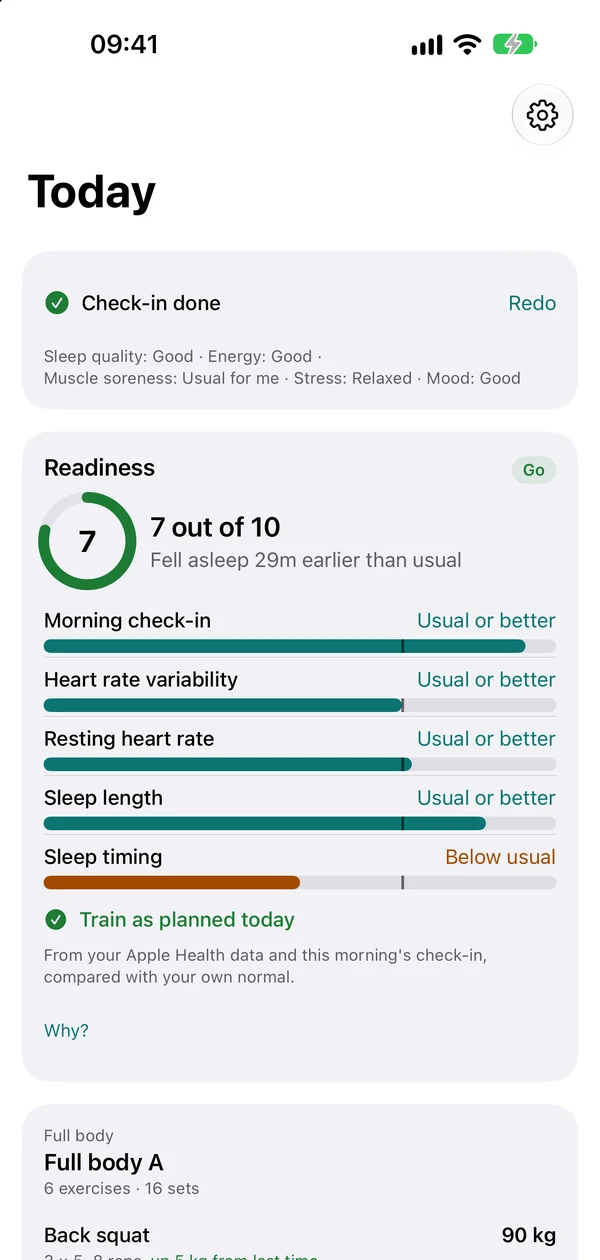
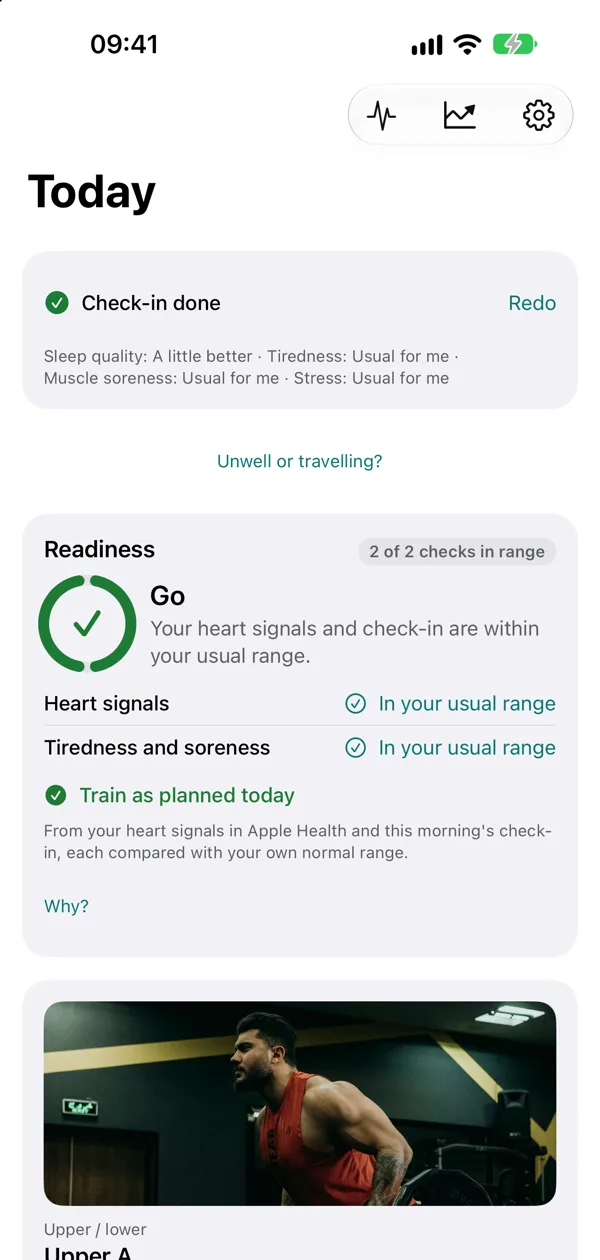
Udapt page for 1.3: Go, Ease off or Recover, run, ride and swim, train anywhere, food that learns your burn, every change explained; the ten 1.3 App Store panels in place of the 1.2 ones; the 1.3 Today screen
Claude-Session: https://claude.ai/code/session_018fyMZ86VPNyXcF1utVSCAz

diff --git a/udapt.html b/udapt.html
@@ -4,7 +4,7 @@
 <meta charset="utf-8">
 <meta name="viewport" content="width=device-width,initial-scale=1,viewport-fit=cover">
 <title>Udapt by iSafeNet: The Fitness Plan That Adapts Around You</title>
-<meta name="description" content="Udapt for iPhone and Apple Watch: one adaptive daily plan that reads Apple Health each morning and adjusts today's training and food together.">
+<meta name="description" content="Udapt for iPhone and Apple Watch: strength training, runs, rides, swims and food targets in one plan that checks each morning how you've recovered.">
 <meta name="theme-color" content="#0B1018">
 <link rel="canonical" href="https://isafenet.app/udapt.html">
 <link rel="icon" type="image/png" sizes="32x32" href="assets/favicon-32.png" media="(prefers-color-scheme: light)">
@@ -16,18 +16,18 @@
 <meta property="og:locale" content="en_GB">
 <meta property="og:site_name" content="iSafeNet">
 <meta property="og:title" content="Udapt by iSafeNet: The Fitness Plan That Adapts Around You">
-<meta property="og:description" content="Udapt for iPhone and Apple Watch: one adaptive daily plan that reads Apple Health each morning and adjusts today's training and food together.">
+<meta property="og:description" content="Udapt for iPhone and Apple Watch: strength training, runs, rides, swims and food targets in one plan that checks each morning how you've recovered.">
 <meta property="og:url" content="https://isafenet.app/udapt.html">
 <meta property="og:image" content="https://isafenet.app/assets/img/og.png">
 <meta name="twitter:card" content="summary_large_image">
 <meta name="twitter:title" content="Udapt by iSafeNet: The Fitness Plan That Adapts Around You">
-<meta name="twitter:description" content="Udapt for iPhone and Apple Watch: one adaptive daily plan that reads Apple Health each morning and adjusts today's training and food together.">
+<meta name="twitter:description" content="Udapt for iPhone and Apple Watch: strength training, runs, rides, swims and food targets in one plan that checks each morning how you've recovered.">
 <meta name="twitter:image" content="https://isafenet.app/assets/img/og.png">
 <link rel="preload" href="assets/fonts/home/bricolage-grotesque-normal-700-latin.woff2" as="font" type="font/woff2" crossorigin>
 <link rel="stylesheet" href="assets/site.css">
 <script>document.documentElement.classList.add("js")</script>
 <script type="application/ld+json">{"@context":"https://schema.org","@type":"Organization","@id":"https://isafenet.app/#organization","name":"iSafeNet","url":"https://isafenet.app/","logo":"https://isafenet.app/assets/favicon-192.png","image":"https://isafenet.app/assets/img/og.png","email":"info@isafenet.app","slogan":"Create. Ship. Evolve.","description":"iSafeNet is an independent mobile app studio designing and building private, accessible apps for iPhone, iPad and Apple Watch.","sameAs":["https://github.com/isafenet"],"contactPoint":{"@type":"ContactPoint","email":"info@isafenet.app","contactType":"customer support","availableLanguage":["English"]},"owns":[{"@type":"MobileApplication","name":"AirReveal","url":"https://airreveal.isafenet.app/"},{"@type":"MobileApplication","name":"GLPMGR","url":"https://glpmgr.isafenet.app/"},{"@type":"MobileApplication","name":"Udapt","url":"https://udapt.isafenet.app/"}]}</script>
-<script type="application/ld+json">{"@context":"https://schema.org","@type":"MobileApplication","name":"Udapt","url":"https://udapt.isafenet.app/","image":"https://isafenet.app/assets/img/apps/udapt-icon.png","description":"One adaptive Daily Plan that reads Apple Health each morning and adjusts today's training and today's food targets together, explaining every change in plain English.","applicationCategory":"HealthApplication","operatingSystem":"iOS, watchOS","inLanguage":"en-GB","publisher":{"@id":"https://isafenet.app/#organization"},"author":{"@id":"https://isafenet.app/#organization"},"offers":{"@type":"Offer","price":"6.99","priceCurrency":"GBP"},"installUrl":"https://apps.apple.com/app/udapt-workout-food-planner/id6815828206","downloadUrl":"https://apps.apple.com/app/udapt-workout-food-planner/id6815828206","sameAs":["https://isafenet.app/udapt.html"]}</script>
+<script type="application/ld+json">{"@context":"https://schema.org","@type":"MobileApplication","name":"Udapt","url":"https://udapt.isafenet.app/","image":"https://isafenet.app/assets/img/apps/udapt-icon.png","description":"One plan for your strength training, runs, rides, swims and food targets, checked each morning against how you've recovered, with every change explained in plain English.","applicationCategory":"HealthApplication","operatingSystem":"iOS, watchOS","inLanguage":"en-GB","publisher":{"@id":"https://isafenet.app/#organization"},"author":{"@id":"https://isafenet.app/#organization"},"offers":{"@type":"Offer","price":"6.99","priceCurrency":"GBP"},"installUrl":"https://apps.apple.com/app/udapt-workout-food-planner/id6815828206","downloadUrl":"https://apps.apple.com/app/udapt-workout-food-planner/id6815828206","sameAs":["https://isafenet.app/udapt.html"]}</script>
 <script type="application/ld+json">{"@context":"https://schema.org","@type":"BreadcrumbList","itemListElement":[{"@type":"ListItem","position":1,"name":"iSafeNet","item":"https://isafenet.app/"},{"@type":"ListItem","position":2,"name":"Apps","item":"https://isafenet.app/index.html#apps"},{"@type":"ListItem","position":3,"name":"Udapt","item":"https://isafenet.app/udapt.html"}]}</script>
 </head>
 <body>
@@ -44,32 +44,32 @@
     <p class="crumbs"><a href="index.html">iSafeNet</a> / <a href="index.html#apps">Apps</a> / Udapt</p>
     <div class="app-id" style="margin-top:22px"><img src="assets/img/apps/udapt-icon.png" width="84" height="84" alt="Udapt app icon"><div><a class="live" href="https://apps.apple.com/app/udapt-workout-food-planner/id6815828206"><svg viewBox="0 0 24 24" fill="none" stroke="currentColor" stroke-width="2" stroke-linecap="round" stroke-linejoin="round" aria-hidden="true"><path d="M5 7h14l-1 13H6L5 7z"/><path d="M9 7a3 3 0 0 1 6 0"/></svg> Available on the App Store</a><div class="kind" style="margin-top:8px">Health &amp; Fitness · iPhone &amp; Apple Watch</div></div></div>
     <h1>Udapt: <span class="grad">The fitness plan that adapts around you.</span></h1>
-    <p class="lead">Udapt reads Apple Health (or a quick morning check-in) every day and adjusts today's training and today's food targets together, as one connected plan, with a plain-English reason for every change. No spreadsheets, no separate apps to reconcile.</p>
+    <p class="lead">Udapt checks each morning how you've recovered, from Apple Health and a four-question check-in, and fits today's workout, run, ride or swim and your food targets to it, as one connected plan. Every change comes with a plain-English reason and the research behind it.</p>
     <div class="cta-row"><a class="btn" href="https://apps.apple.com/app/udapt-workout-food-planner/id6815828206">Get it on the App Store</a><a class="btn ghost" href="https://udapt.isafenet.app/">Visit the Udapt website <svg viewBox="0 0 24 24" fill="none" stroke="currentColor" stroke-width="2" stroke-linecap="round" stroke-linejoin="round" aria-hidden="true"><path d="M7 17 17 7"/><path d="M8 7h9v9"/></svg></a><a class="btn ghost" href="https://udapt.isafenet.app/#features">See how it works</a></div>
     <ul class="chips" aria-label="Platforms and features"><li>iPhone</li><li>Apple Watch</li><li>Widgets</li><li>Apple Health</li><li>On-device AI</li><li>6 languages</li></ul>
   </div>
-  <div class="devices" aria-label="Screens from Udapt"><div class="phone panel p1"><img class="" src="assets/img/apps/udapt-panel-training-that-adapts.webp" width="660" height="1405" alt="Training that adapts: today's sets with weights worked out from your last session" decoding="async"></div><div class="phone panel p2"><img class="" src="assets/img/apps/udapt-panel-ready-in-one-glance.webp" width="660" height="1405" alt="Ready in one glance: readiness score 7, Go, with today's Full body A session" decoding="async"></div><div class="phone panel p3"><img class="" src="assets/img/apps/udapt-panel-food-that-moves-with-you.webp" width="660" height="1405" alt="Food that moves with you: calories and protein, carbs and fat eaten against today's targets on a training day" decoding="async"></div></div>
+  <div class="devices" aria-label="Screens from Udapt"><div class="phone panel p1"><img class="" src="assets/img/apps/udapt13-training-that-adapts.webp" width="660" height="1434" alt="Training that adapts: bench press and barbell row with weights from last time and reps to leave in the tank" decoding="async"></div><div class="phone panel p2"><img class="" src="assets/img/apps/udapt13-ready-in-one-glance.webp" width="660" height="1434" alt="Ready in one glance: Go, with 2 of 2 checks in your usual range and today's Upper A session" decoding="async"></div><div class="phone panel p3"><img class="" src="assets/img/apps/udapt13-run-ride-or-swim.webp" width="660" height="1434" alt="Run, ride or swim: a 35-minute easy run with Stop if… safety advice and spoken cues" decoding="async"></div></div>
 </div></section>
 
 <section><div class="wrap">
   <div class="sec-head rv"><span class="eyebrow">Highlights</span><h2>What Udapt does.</h2></div>
-  <div class="grid"><article class="card rv"><div class="ico"><svg viewBox="0 0 24 24" fill="none" stroke="currentColor" stroke-width="2" stroke-linecap="round" stroke-linejoin="round" aria-hidden="true"><path d="M19 14c1.49-1.46 3-3.21 3-5.5A5.5 5.5 0 0 0 16.5 3c-1.76 0-3 .5-4.5 2-1.5-1.5-2.74-2-4.5-2A5.5 5.5 0 0 0 2 8.5c0 2.3 1.5 4.05 3 5.5l7 7Z"/></svg></div><h3>Readiness that means something</h3><p>Heart rate variability, resting heart rate and sleep from Apple Health, or a 5-question morning check-in if you don't wear your Watch to bed. Either way, you get a score and a plain reason why.</p></article><article class="card rv"><div class="ico"><svg viewBox="0 0 24 24" fill="none" stroke="currentColor" stroke-width="2" stroke-linecap="round" stroke-linejoin="round" aria-hidden="true"><path d="M6.5 6.5 4 4M6.5 17.5 4 20M17.5 6.5 20 4M17.5 17.5 20 20"/><rect x="7" y="7" width="10" height="10" rx="2"/></svg></div><h3>Training that eases off, not just logs</h3><p>A rough night trims today's sets and caps effort automatically. A good run of days lets your program progress. You can always keep the original session, one tap.</p></article><article class="card rv"><div class="ico"><svg viewBox="0 0 24 24" fill="none" stroke="currentColor" stroke-width="2" stroke-linecap="round" stroke-linejoin="round" aria-hidden="true"><path d="M18 8h1a4 4 0 0 1 0 8h-1M2 8h16v9a4 4 0 0 1-4 4H6a4 4 0 0 1-4-4V8z"/><path d="M6 1v3M10 1v3M14 1v3"/></svg></div><h3>Food targets that move with training</h3><p>More carbs on training days, a little less on rest days, and the week's total stays the same. After a month of daily weigh-ins and food logs, your calorie target adapts to what your body actually does, not a generic formula.</p></article><article class="card rv"><div class="ico"><svg viewBox="0 0 24 24" fill="none" stroke="currentColor" stroke-width="2" stroke-linecap="round" stroke-linejoin="round" aria-hidden="true"><rect x="3" y="11" width="18" height="10" rx="2"/><circle cx="12" cy="5" r="2"/><path d="M12 7v4"/></svg></div><h3>Log food your way</h3><p>Search thousands of foods, scan a barcode, or use on-device AI to log a meal from a photo or by describing it out loud. Nothing leaves your phone.</p></article><article class="card rv"><div class="ico"><svg viewBox="0 0 24 24" fill="none" stroke="currentColor" stroke-width="2" stroke-linecap="round" stroke-linejoin="round" aria-hidden="true"><path d="M14.5 4h-5L7 7H4a2 2 0 0 0-2 2v9a2 2 0 0 0 2 2h16a2 2 0 0 0 2-2V9a2 2 0 0 0-2-2h-3z"/><circle cx="12" cy="13" r="3"/></svg></div><h3>Protect a joint</h3><p>Flag a shoulder, knee or lower back you're being careful with, and Udapt automatically swaps exercises that load it for a like-for-like alternative that doesn't.</p></article><article class="card rv"><div class="ico"><svg viewBox="0 0 24 24" fill="none" stroke="currentColor" stroke-width="2" stroke-linecap="round" stroke-linejoin="round" aria-hidden="true"><rect x="4" y="11" width="16" height="10" rx="3"/><path d="M8 11V7a4 4 0 0 1 8 0v4"/></svg></div><h3>Private by design</h3><p>No ads, no third-party analytics. Health data stays in Apple Health; anything Udapt-only stays on your phone.</p></article></div>
+  <div class="grid"><article class="card rv"><div class="ico"><svg viewBox="0 0 24 24" fill="none" stroke="currentColor" stroke-width="2" stroke-linecap="round" stroke-linejoin="round" aria-hidden="true"><path d="M19 14c1.49-1.46 3-3.21 3-5.5A5.5 5.5 0 0 0 16.5 3c-1.76 0-3 .5-4.5 2-1.5-1.5-2.74-2-4.5-2A5.5 5.5 0 0 0 2 8.5c0 2.3 1.5 4.05 3 5.5l7 7Z"/></svg></div><h3>Go, Ease off or Recover</h3><p>Your heart signals overnight and a four-question morning check-in, each compared with your own normal, never with other people's. No score out of 10, because no study gives one.</p></article><article class="card rv"><div class="ico"><svg viewBox="0 0 24 24" fill="none" stroke="currentColor" stroke-width="2" stroke-linecap="round" stroke-linejoin="round" aria-hidden="true"><path d="M6.5 6.5 4 4M6.5 17.5 4 20M17.5 6.5 20 4M17.5 17.5 20 20"/><rect x="7" y="7" width="10" height="10" rx="2"/></svg></div><h3>Training that eases off, not just logs</h3><p>Weights go up when you're ready. A rough morning means fewer sets and a lighter effort, with the original session one tap away. Flag a shoulder, knee or lower back and exercises that load it are swapped like-for-like.</p></article><article class="card rv"><div class="ico"><svg viewBox="0 0 24 24" fill="none" stroke="currentColor" stroke-width="2" stroke-linecap="round" stroke-linejoin="round" aria-hidden="true"><circle cx="12" cy="12" r="9"/><path d="m15.5 8.5-2 5-5 2 2-5z"/></svg></div><h3>Run, ride and swim</h3><p>A nine-week run/walk plan, running towards a goal or a race from 5K to marathon, easy rides, and pool or open-water swims, fitted around your strength training at your level.</p></article><article class="card rv"><div class="ico"><svg viewBox="0 0 24 24" fill="none" stroke="currentColor" stroke-width="2" stroke-linecap="round" stroke-linejoin="round" aria-hidden="true"><circle cx="12" cy="12" r="9"/><path d="M3 12h18M12 3c2.5 2.7 3.8 5.7 3.8 9s-1.3 6.3-3.8 9c-2.5-2.7-3.8-5.7-3.8-9S9.5 5.7 12 3z"/></svg></div><h3>Train anywhere</h3><p>Gym, home (from dumbbells to a multi-gym), resistance bands, a hotel gym or just the floor: pick it for each session, at Beginner, Intermediate or Experienced.</p></article><article class="card rv"><div class="ico"><svg viewBox="0 0 24 24" fill="none" stroke="currentColor" stroke-width="2" stroke-linecap="round" stroke-linejoin="round" aria-hidden="true"><path d="M18 8h1a4 4 0 0 1 0 8h-1M2 8h16v9a4 4 0 0 1-4 4H6a4 4 0 0 1-4-4V8z"/><path d="M6 1v3M10 1v3M14 1v3"/></svg></div><h3>Food targets that learn your body</h3><p>The same calorie target every day, protein first. After a month of logging, Udapt learns what your body really burns. Log by search, barcode, or a photo or your voice with on-device AI.</p></article><article class="card rv"><div class="ico"><svg viewBox="0 0 24 24" fill="none" stroke="currentColor" stroke-width="2" stroke-linecap="round" stroke-linejoin="round" aria-hidden="true"><path d="M4 19.5V5a2 2 0 0 1 2-2h14v16H6a2 2 0 0 0-2 2z"/><path d="M8 7h8"/></svg></div><h3>Every change explained</h3><p>Tap Why? for what changed and the research behind the rule, labelled by how directly it applies. No black box.</p></article></div>
 </div></section>
 
 <section class="alt" aria-label="Udapt screens" style="padding-bottom:70px"><div class="wrap">
   <div class="sec-head rv"><span class="eyebrow">Screens</span><h2>A closer look.</h2><p>Swipe through the real app.</p></div></div>
-  <div class="rail" role="group" aria-label="Udapt screenshots" tabindex="0"><img class="" src="assets/img/apps/udapt-panel-ready-in-one-glance.webp" width="660" height="1405" alt="Ready in one glance: readiness score 7, Go, with today's Full body A session" loading="lazy" decoding="async"><img class="" src="assets/img/apps/udapt-panel-training-that-adapts.webp" width="660" height="1405" alt="Training that adapts: today's sets with weights worked out from your last session" loading="lazy" decoding="async"><img class="" src="assets/img/apps/udapt-panel-food-that-moves-with-you.webp" width="660" height="1405" alt="Food that moves with you: calories and protein, carbs and fat eaten against today's targets on a training day" loading="lazy" decoding="async"><img class="" src="assets/img/apps/udapt-panel-log-food-your-way.webp" width="660" height="1405" alt="Log food your way: search, scan a barcode, or just say what you ate" loading="lazy" decoding="async"><img class="" src="assets/img/apps/udapt-panel-train-around-an-injury.webp" width="660" height="1405" alt="Train around an injury: protect a joint and Udapt swaps out the risky exercises" loading="lazy" decoding="async"><img class="" src="assets/img/apps/udapt-panel-home-or-gym.webp" width="660" height="1405" alt="Home or gym, your call: full programs either way" loading="lazy" decoding="async"></div>
+  <div class="rail" role="group" aria-label="Udapt screenshots" tabindex="0"><img class="" src="assets/img/apps/udapt13-ready-in-one-glance.webp" width="660" height="1434" alt="Ready in one glance: Go, with 2 of 2 checks in your usual range and today's Upper A session" loading="lazy" decoding="async"><img class="" src="assets/img/apps/udapt13-training-that-adapts.webp" width="660" height="1434" alt="Training that adapts: bench press and barbell row with weights from last time and reps to leave in the tank" loading="lazy" decoding="async"><img class="" src="assets/img/apps/udapt13-run-ride-or-swim.webp" width="660" height="1434" alt="Run, ride or swim: a 35-minute easy run with Stop if… safety advice and spoken cues" loading="lazy" decoding="async"><img class="" src="assets/img/apps/udapt13-train-for-race-day.webp" width="660" height="1434" alt="Train for race day: today's run towards a 10K in five weeks, with an estimated finish time" loading="lazy" decoding="async"><img class="" src="assets/img/apps/udapt13-train-anywhere.webp" width="660" height="1434" alt="Train anywhere: today's session set for a hotel gym, with the weights to use" loading="lazy" decoding="async"><img class="" src="assets/img/apps/udapt13-food-targets-for-your-goal.webp" width="660" height="1434" alt="Food targets for your goal: calories, protein, carbs and fat eaten against today's targets" loading="lazy" decoding="async"><img class="" src="assets/img/apps/udapt13-every-change-explained.webp" width="660" height="1434" alt="Every change explained: where today's readiness comes from, check by check" loading="lazy" decoding="async"><img class="" src="assets/img/apps/udapt13-see-your-progress.webp" width="660" height="1434" alt="See your progress: weeks on plan, this week's sets for each muscle and personal records" loading="lazy" decoding="async"><img class="" src="assets/img/apps/udapt13-log-food-your-way.webp" width="660" height="1434" alt="Log food your way: search foods, scan a barcode or say what you ate" loading="lazy" decoding="async"><img class="" src="assets/img/apps/udapt13-swim-too.webp" width="660" height="1434" alt="Swim, too: today's 300 m pool swim with water safety advice" loading="lazy" decoding="async"></div>
 </section>
 
 <section><div class="wrap split">
   <div class="rv">
     <span class="eyebrow">Made for Apple devices</span>
     <h2 style="font-size:clamp(1.9rem,3.4vw,2.6rem);margin:12px 0 18px">One plan, not three apps.</h2>
-    <ul class="ticks"><li><svg viewBox="0 0 24 24" fill="none" stroke="currentColor" stroke-width="2" stroke-linecap="round" stroke-linejoin="round" aria-hidden="true"><path d="M20 6 9 17l-5-5"/></svg><span><b>iPhone:</b> Today's readiness, training and food targets in one place, explained in plain English.</span></li><li><svg viewBox="0 0 24 24" fill="none" stroke="currentColor" stroke-width="2" stroke-linecap="round" stroke-linejoin="round" aria-hidden="true"><path d="M20 6 9 17l-5-5"/></svg><span><b>Apple Watch:</b> A full companion app, included: today's plan at a glance, sets logged with the Digital Crown, and a rest timer on your wrist.</span></li><li><svg viewBox="0 0 24 24" fill="none" stroke="currentColor" stroke-width="2" stroke-linecap="round" stroke-linejoin="round" aria-hidden="true"><path d="M20 6 9 17l-5-5"/></svg><span><b>Widgets &amp; Live Activities:</b> Today's plan on the Home Screen and Lock Screen, and your rest timer live during a workout.</span></li><li><svg viewBox="0 0 24 24" fill="none" stroke="currentColor" stroke-width="2" stroke-linecap="round" stroke-linejoin="round" aria-hidden="true"><path d="M20 6 9 17l-5-5"/></svg><span><b>Siri, Shortcuts &amp; Control Centre:</b> Ask for your readiness or log your usual breakfast, hands-free, or open today's workout from Control Centre.</span></li><li><svg viewBox="0 0 24 24" fill="none" stroke="currentColor" stroke-width="2" stroke-linecap="round" stroke-linejoin="round" aria-hidden="true"><path d="M20 6 9 17l-5-5"/></svg><span><b>Built with:</b> Swift 6, SwiftUI, HealthKit, WidgetKit, ActivityKit, App Intents, Foundation Models (on-device AI), Speech and StoreKit 2.</span></li></ul>
+    <ul class="ticks"><li><svg viewBox="0 0 24 24" fill="none" stroke="currentColor" stroke-width="2" stroke-linecap="round" stroke-linejoin="round" aria-hidden="true"><path d="M20 6 9 17l-5-5"/></svg><span><b>iPhone:</b> Today's readiness, training, runs, rides and food targets in one place, with spoken cues on every run and ride.</span></li><li><svg viewBox="0 0 24 24" fill="none" stroke="currentColor" stroke-width="2" stroke-linecap="round" stroke-linejoin="round" aria-hidden="true"><path d="M20 6 9 17l-5-5"/></svg><span><b>Apple Watch:</b> A full companion app, included: the morning check-in, sets logged with the Digital Crown and your heart rate, and every interval of a run, ride or swim, with complications for today.</span></li><li><svg viewBox="0 0 24 24" fill="none" stroke="currentColor" stroke-width="2" stroke-linecap="round" stroke-linejoin="round" aria-hidden="true"><path d="M20 6 9 17l-5-5"/></svg><span><b>Widgets &amp; Live Activities:</b> Today's plan on the Home Screen and Lock Screen, and your rest timer live during a workout.</span></li><li><svg viewBox="0 0 24 24" fill="none" stroke="currentColor" stroke-width="2" stroke-linecap="round" stroke-linejoin="round" aria-hidden="true"><path d="M20 6 9 17l-5-5"/></svg><span><b>Siri, Shortcuts &amp; Control Centre:</b> Ask for your readiness or log your usual breakfast, hands-free, or open today's workout from Control Centre.</span></li><li><svg viewBox="0 0 24 24" fill="none" stroke="currentColor" stroke-width="2" stroke-linecap="round" stroke-linejoin="round" aria-hidden="true"><path d="M20 6 9 17l-5-5"/></svg><span><b>Built with:</b> Swift 6, SwiftUI, HealthKit, Core Location, WidgetKit, ActivityKit, App Intents, Foundation Models (on-device AI), Speech, WatchConnectivity and StoreKit 2.</span></li></ul>
     <p style="color:var(--ink-2);margin-top:6px"><b>Pricing:</b> Udapt is a subscription: £6.99/month or £39.99/year, with a 7-day free trial on both plans.</p>
     <p style="color:var(--ink-2);margin-top:12px"><b>Good to know:</b> Udapt is a wellness tool, not a medical device, and doesn't diagnose or treat anything. Always talk to your doctor about what's safe for you, especially around injuries.</p>
   </div>
-  <div class="art pair panels"><img class="" src="assets/img/apps/udapt-panel-train-around-an-injury.webp" width="660" height="1405" alt="Train around an injury: protect a joint and Udapt swaps out the risky exercises" loading="lazy" decoding="async"><img class="" src="assets/img/apps/udapt-panel-home-or-gym.webp" width="660" height="1405" alt="Home or gym, your call: full programs either way" loading="lazy" decoding="async"></div>
+  <div class="art pair panels"><img class="" src="assets/img/apps/udapt13-swim-too.webp" width="660" height="1434" alt="Swim, too: today's 300 m pool swim with water safety advice" loading="lazy" decoding="async"><img class="" src="assets/img/apps/udapt13-train-anywhere.webp" width="660" height="1434" alt="Train anywhere: today's session set for a hotel gym, with the weights to use" loading="lazy" decoding="async"></div>
 </div></section>
 
 <section class="alt"><div class="wrap">

diff --git a/index.html b/index.html
@@ -30,7 +30,7 @@
 <script type="application/ld+json">{"@context":"https://schema.org","@type":"WebSite","@id":"https://isafenet.app/#website","name":"iSafeNet","url":"https://isafenet.app/","inLanguage":"en-GB","publisher":{"@id":"https://isafenet.app/#organization"}}</script>
 <script type="application/ld+json">{"@context":"https://schema.org","@type":"MobileApplication","name":"AirReveal","url":"https://airreveal.isafenet.app/","image":"https://isafenet.app/assets/img/apps/airreveal-icon.png","description":"A window-seat companion that names the landmarks, cities and natural wonders below your plane, tells you which side to look from, and keeps a journal of every flight, even in airplane mode.","applicationCategory":"TravelApplication","operatingSystem":"iOS, iPadOS","inLanguage":"en-GB","publisher":{"@id":"https://isafenet.app/#organization"},"author":{"@id":"https://isafenet.app/#organization"},"offers":{"@type":"Offer","price":"0","priceCurrency":"GBP"},"installUrl":"https://apps.apple.com/app/airreveal-flight-map-explorer/id6814283579","downloadUrl":"https://apps.apple.com/app/airreveal-flight-map-explorer/id6814283579","sameAs":["https://isafenet.app/airreveal.html"]}</script>
 <script type="application/ld+json">{"@context":"https://schema.org","@type":"MobileApplication","name":"GLPMGR","url":"https://glpmgr.isafenet.app/","image":"https://isafenet.app/assets/img/apps/glpmgr-icon.png","description":"A calm, private tracker for people taking GLP-1 medicines, from the first dose to maintenance, such as Mounjaro, Wegovy and Ozempic: doses and dose steps, reminders, injection sites, weight, side effects, water and protein.","applicationCategory":"HealthApplication","operatingSystem":"iOS, iPadOS, watchOS","inLanguage":"en-GB","publisher":{"@id":"https://isafenet.app/#organization"},"author":{"@id":"https://isafenet.app/#organization"},"offers":{"@type":"Offer","price":"0","priceCurrency":"GBP"},"installUrl":"https://apps.apple.com/app/glpmgr-glp-1-tracker/id6814282972","downloadUrl":"https://apps.apple.com/app/glpmgr-glp-1-tracker/id6814282972","sameAs":["https://isafenet.app/glpmgr.html"]}</script>
-<script type="application/ld+json">{"@context":"https://schema.org","@type":"MobileApplication","name":"Udapt","url":"https://udapt.isafenet.app/","image":"https://isafenet.app/assets/img/apps/udapt-icon.png","description":"One adaptive Daily Plan that reads Apple Health each morning and adjusts today's training and today's food targets together, explaining every change in plain English.","applicationCategory":"HealthApplication","operatingSystem":"iOS, watchOS","inLanguage":"en-GB","publisher":{"@id":"https://isafenet.app/#organization"},"author":{"@id":"https://isafenet.app/#organization"},"offers":{"@type":"Offer","price":"6.99","priceCurrency":"GBP"},"installUrl":"https://apps.apple.com/app/udapt-workout-food-planner/id6815828206","downloadUrl":"https://apps.apple.com/app/udapt-workout-food-planner/id6815828206","sameAs":["https://isafenet.app/udapt.html"]}</script>
+<script type="application/ld+json">{"@context":"https://schema.org","@type":"MobileApplication","name":"Udapt","url":"https://udapt.isafenet.app/","image":"https://isafenet.app/assets/img/apps/udapt-icon.png","description":"One plan for your strength training, runs, rides, swims and food targets, checked each morning against how you've recovered, with every change explained in plain English.","applicationCategory":"HealthApplication","operatingSystem":"iOS, watchOS","inLanguage":"en-GB","publisher":{"@id":"https://isafenet.app/#organization"},"author":{"@id":"https://isafenet.app/#organization"},"offers":{"@type":"Offer","price":"6.99","priceCurrency":"GBP"},"installUrl":"https://apps.apple.com/app/udapt-workout-food-planner/id6815828206","downloadUrl":"https://apps.apple.com/app/udapt-workout-food-planner/id6815828206","sameAs":["https://isafenet.app/udapt.html"]}</script>
 </head>
 <body>
 <a class="skip" href="#main">Skip to content</a>
@@ -115,7 +115,7 @@
       <div class="copy">
         <div class="idline"><img src="assets/img/apps/udapt-icon.png" width="58" height="58" alt=""><div><h3>Udapt</h3><small>Health &amp; Fitness · iPhone &amp; Apple Watch</small></div></div>
         <p class="say">The fitness plan that adapts around you.</p>
-        <ul><li>A readiness score from Apple Health or a morning check-in</li><li>Training that eases off or progresses automatically</li><li>Food targets that shift with training days, plus photo and voice logging</li><li>A GLP-1 mode, rest when you're unwell, shorter sessions when you travel, and a real lighter week</li><li>Protects a joint by swapping out exercises that load it</li><li>My own plan: log the exercise plan your physio or rehab team gave you, exactly as written</li></ul>
+        <ul><li>Go, Ease off or Recover each morning, from Apple Health and a four-question check-in</li><li>Strength training that progresses when you're ready and eases off when you're not</li><li>Running, cycling and swimming plans, and race goals from 5K to marathon</li><li>Train at the gym, at home, with bands, in a hotel gym or on the floor</li><li>Food targets that learn your daily burn, logged by search, barcode, photo or voice</li><li>Every change explained, with the research behind the rule</li></ul>
         <div class="chips"><span>iPhone</span><span>Apple Watch</span><span>Widgets</span><span>Apple Health</span><span>On-device AI</span><span>6 languages</span></div>
         <div class="links"><a class="store" href="https://apps.apple.com/app/udapt-workout-food-planner/id6815828206">Get it on the App Store</a><a class="textlink" href="https://udapt.isafenet.app/">Website</a><a class="textlink" href="udapt.html">About Udapt</a></div>
       </div>

diff --git a/glpmgr.html b/glpmgr.html
@@ -85,7 +85,7 @@
     <div><h3>AirReveal</h3><p>See what you're flying over. A window-seat companion that names the landmarks, cities and natural wonders below your plane, even in airplane mode.</p></div>
     <a class="btn" href="airreveal.html">Explore AirReveal <svg viewBox="0 0 24 24" fill="none" stroke="currentColor" stroke-width="2" stroke-linecap="round" stroke-linejoin="round" aria-hidden="true"><path d="M5 12h14"/><path d="m13 6 6 6-6 6"/></svg></a></div>
   <div class="more rv"><img src="assets/img/apps/udapt-icon.png" width="72" height="72" alt="Udapt app icon">
-    <div><h3>Udapt</h3><p>The fitness plan that adapts around you. One adaptive Daily Plan that reads Apple Health each morning and adjusts today's training and food targets together.</p></div>
+    <div><h3>Udapt</h3><p>The fitness plan that adapts around you. Strength, runs, rides, swims and food targets in one plan, checked each morning against how you've recovered.</p></div>
     <a class="btn" href="udapt.html">Explore Udapt <svg viewBox="0 0 24 24" fill="none" stroke="currentColor" stroke-width="2" stroke-linecap="round" stroke-linejoin="round" aria-hidden="true"><path d="M5 12h14"/><path d="m13 6 6 6-6 6"/></svg></a></div>
 </div></section>
 </main>

diff --git a/airreveal.html b/airreveal.html
@@ -85,7 +85,7 @@
     <div><h3>GLPMGR</h3><p>Your GLP-1 journey, tracked privately. Doses, dose steps, injection sites, weight and side effects for Mounjaro, Wegovy, Ozempic and more.</p></div>
     <a class="btn" href="glpmgr.html">Explore GLPMGR <svg viewBox="0 0 24 24" fill="none" stroke="currentColor" stroke-width="2" stroke-linecap="round" stroke-linejoin="round" aria-hidden="true"><path d="M5 12h14"/><path d="m13 6 6 6-6 6"/></svg></a></div>
   <div class="more rv"><img src="assets/img/apps/udapt-icon.png" width="72" height="72" alt="Udapt app icon">
-    <div><h3>Udapt</h3><p>The fitness plan that adapts around you. One adaptive Daily Plan that reads Apple Health each morning and adjusts today's training and food targets together.</p></div>
+    <div><h3>Udapt</h3><p>The fitness plan that adapts around you. Strength, runs, rides, swims and food targets in one plan, checked each morning against how you've recovered.</p></div>
     <a class="btn" href="udapt.html">Explore Udapt <svg viewBox="0 0 24 24" fill="none" stroke="currentColor" stroke-width="2" stroke-linecap="round" stroke-linejoin="round" aria-hidden="true"><path d="M5 12h14"/><path d="m13 6 6 6-6 6"/></svg></a></div>
 </div></section>
 </main>
